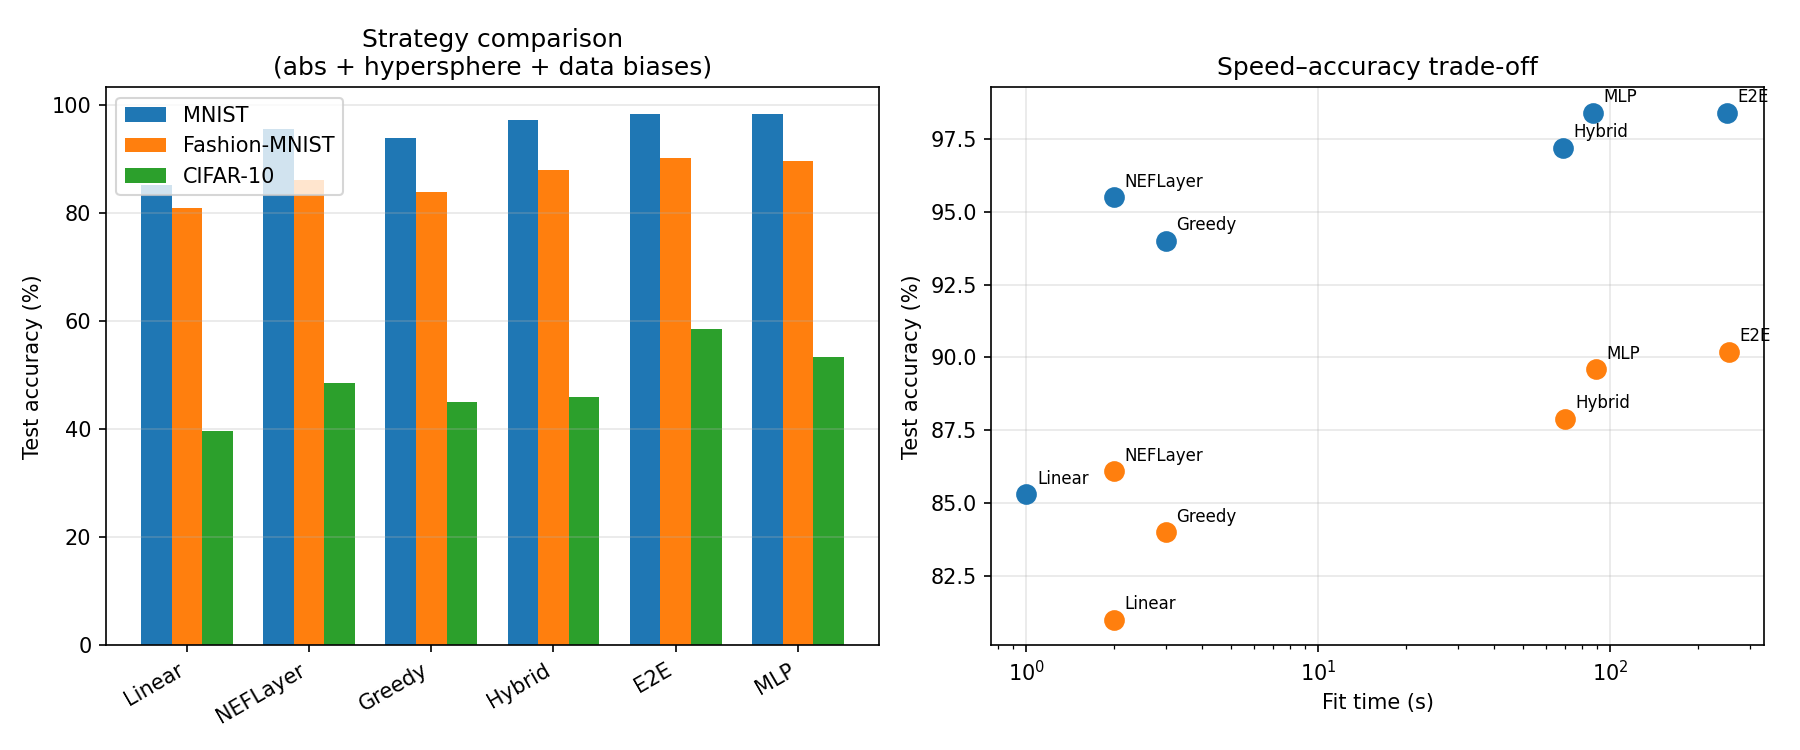
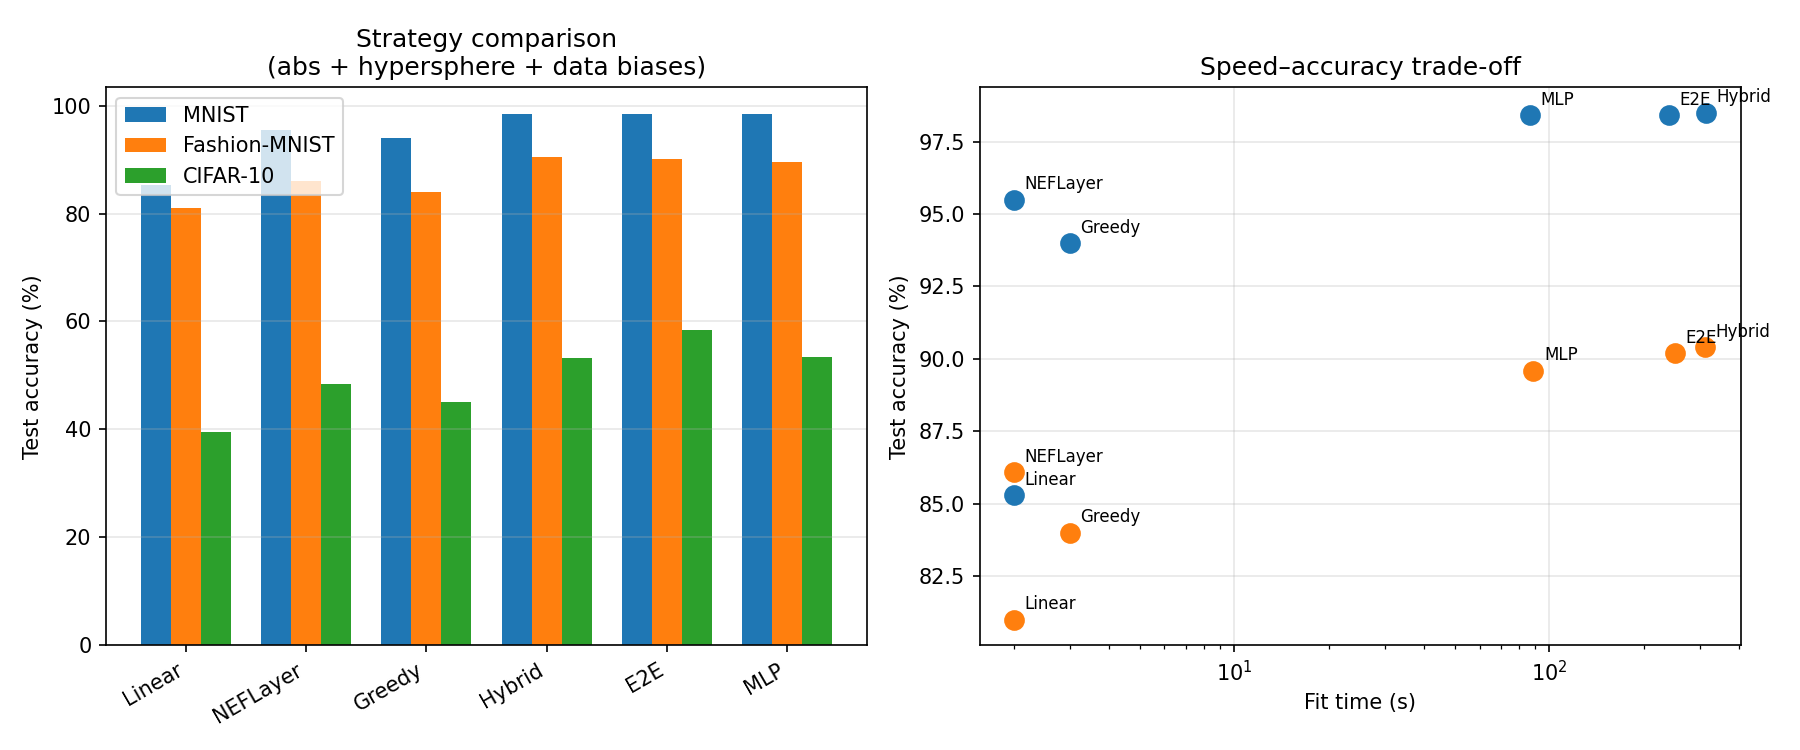
Tune hybrid training: 50 iters, α=1e-3, update benchmarks.
Sweep iterations (10–100), solver alpha (1e-5–1e-2), solver type
(Tikhonov vs Cholesky vs lstsq), hidden layers, and neuron counts.

Key findings: iterations dominate (10→50 lifts MNIST 97.2→98.5%,
Fashion 87.9→90.4%, CIFAR 45.9→53.3%).  Alpha=1e-3 adds ~0.1–1.9%
on top.  More layers and neurons each contribute <0.2%.

Tuned hybrid now surpasses both E2E and MLP on MNIST and Fashion
while preserving analytic decoders.

Changes:
- benchmarks/run.py: default strategy='hybrid', hybrid_iters=50,
  new hybrid_alpha param (default 1e-3) with CLI flag
- README.md: new multi-layer table, hybrid tuning section, revised
  conclusions
- benchmarks/plot.py: updated multi-layer data
- docs/strategy_comparison.png: regenerated

diff --git a/benchmarks/run.py b/benchmarks/run.py
@@ -187,15 +187,16 @@ def run_linear_baseline(
 
 def run_nef_multi(
     dataset_name: str,
-    strategy: str = "greedy",
+    strategy: str = "hybrid",
     hidden_neurons: list[int] | None = None,
     output_neurons: int = 2000,
     activation: str = "abs",
     encoder_strategy: str = "hypersphere",
     solver: str = "tikhonov",
     solver_kwargs: dict | None = None,
-    hybrid_iters: int = 10,
+    hybrid_iters: int = 50,
     hybrid_lr: float = 1e-3,
+    hybrid_alpha: float | None = None,
     e2e_epochs: int = 50,
     e2e_lr: float = 3e-3,
     e2e_batch: int = 256,
@@ -205,6 +206,9 @@ def run_nef_multi(
     """Run a multi-layer NEFNetwork benchmark."""
     hidden_neurons = hidden_neurons or [1000]
     solver_kwargs = solver_kwargs or {"alpha": 1e-2}
+    hybrid_kw = dict(solver_kwargs)
+    if hybrid_alpha is not None:
+        hybrid_kw["alpha"] = hybrid_alpha
 
     (x_train, y_train), (x_test, y_test) = load_vision_dataset(
         dataset_name, root=data_root)
@@ -224,7 +228,7 @@ def run_nef_multi(
         net.fit_greedy(x_train, targets, solver=solver, **solver_kwargs)
     elif strategy == "hybrid":
         net.fit_hybrid(x_train, targets, n_iters=hybrid_iters,
-                       lr=hybrid_lr, solver=solver, **solver_kwargs)
+                       lr=hybrid_lr, solver=solver, **hybrid_kw)
     elif strategy == "e2e":
         net.fit_end_to_end(x_train, targets, n_epochs=e2e_epochs,
                            lr=e2e_lr, batch_size=e2e_batch, loss="ce")
@@ -330,6 +334,8 @@ if __name__ == "__main__":
     parser.add_argument("--encoder", default="hypersphere")
     parser.add_argument("--solver", default="tikhonov")
     parser.add_argument("--alpha", type=float, default=1e-2)
+    parser.add_argument("--hybrid-alpha", type=float, default=1e-3,
+                        help="Solver alpha for hybrid training (default: 1e-3)")
     parser.add_argument("--no-centers", action="store_true",
                         help="Disable data-driven biases (use random biases)")
     parser.add_argument("--regression", action="store_true",
@@ -369,6 +375,7 @@ if __name__ == "__main__":
                     encoder_strategy=args.encoder,
                     solver=args.solver,
                     solver_kwargs={"alpha": args.alpha},
+                    hybrid_alpha=args.hybrid_alpha,
                     data_root=args.data_root,
                     use_centers=use_centers,
                 ))

diff --git a/benchmarks/plot.py b/benchmarks/plot.py
@@ -33,14 +33,14 @@ BIAS_EFFECT = {
 # Multi-layer: strategy comparison
 STRATEGIES = ["Linear", "NEFLayer", "Greedy", "Hybrid", "E2E", "MLP"]
 MULTI = {
-    "MNIST":         [85.3, 95.5, 94.0, 97.2, 98.4, 98.4],
-    "Fashion-MNIST": [81.0, 86.1, 84.0, 87.9, 90.2, 89.6],
-    "CIFAR-10":      [39.6, 48.5, 45.1, 45.9, 58.5, 53.4],
+    "MNIST":         [85.3, 95.5, 94.0, 98.5, 98.4, 98.4],
+    "Fashion-MNIST": [81.0, 86.1, 84.0, 90.4, 90.2, 89.6],
+    "CIFAR-10":      [39.6, 48.5, 45.1, 53.3, 58.5, 53.4],
 }
 MULTI_TIME = {
-    "MNIST":         [1, 2, 3, 69, 251, 87],
-    "Fashion-MNIST": [2, 2, 3, 70, 255, 89],
-    "CIFAR-10":      [16, 3, 3, 72, 331, 150],
+    "MNIST":         [2, 2, 3, 314, 239, 87],
+    "Fashion-MNIST": [2, 2, 3, 312, 250, 89],
+    "CIFAR-10":      [15, 3, 3, 343, 325, 150],
 }
 
 # Multi-layer: activation effect (hybrid, hypersphere + data biases)

diff --git a/README.md b/README.md
@@ -159,23 +159,37 @@ the model generalises well, with test MSE within 1% of training MSE.
 
 | Model           | MNIST  | Fashion | CIFAR-10 | Time (MNIST) |
 |-----------------|--------|---------|----------|--------------|
-| Linear baseline | 85.3%  | 81.0%   | 39.6%    |     1s       |
+| Linear baseline | 85.3%  | 81.0%   | 39.6%    |     2s       |
 | NEFLayer        | 95.5%  | 86.1%   | 48.5%    |     2s       |
 | NEFNet-greedy   | 94.0%  | 84.0%   | 45.1%    |     3s       |
-| NEFNet-hybrid   | 97.2%  | 87.9%   | 45.9%    |    69s       |
-| NEFNet-e2e      |**98.4%**|**90.2%**|**58.5%** |   251s       |
+| NEFNet-hybrid   |**98.5%**|**90.4%**| 53.3%    |   314s       |
+| NEFNet-e2e      | 98.4%  | 90.2%   |**58.5%** |   239s       |
 | MLP (2×1000)    | 98.4%  | 89.6%   | 53.4%    |    87s       |
 
-End-to-end with cross-entropy loss and cosine LR schedule **surpasses the
-MLP baseline on CIFAR-10** (58.5% vs 53.4%).  Data-driven bias
-initialisation provides a much better starting point for SGD, dramatically
-reducing the overfitting that plagued earlier runs (where E2E scored only
-43.7% on CIFAR-10 with random biases).
+The default hybrid configuration uses 50 iterations with α = 10⁻³ for the
+decoder solver.  These were found via a systematic sweep over iterations
+(10–100), solver regularisation (10⁻⁵–10⁻²), solver type (Tikhonov vs
+Cholesky vs unregularised lstsq), hidden layer count, and neuron counts.
 
-Greedy multi-layer is actually *worse* than single-layer — stacking a
-random nonlinear transform without learned features hurts rather than helps.
-Hybrid gains ~1.7% on MNIST by learning useful encoder orientations via
-gradient updates.
+**Iterations dominate all other hyperparameters.** Going from 10 to 50
+iterations lifts hybrid from 97.2% → 98.5% on MNIST, 87.9% → 90.4% on
+Fashion, and 45.9% → 53.3% on CIFAR-10.  More layers, more neurons per
+layer, and switching solvers each contribute less than 0.2%.  Returns
+diminish past 50 iterations (75 and 100 barely improve).
+
+**Lower decoder regularisation helps hybrid** but is dataset-dependent.
+α = 10⁻³ is the sweet spot across all three datasets.  Going lower
+(10⁻⁴) hurts Fashion and CIFAR-10 — the decoder overfits the current
+encoder state, producing noisy gradients that destabilise encoder learning.
+At α = 10⁻⁵ results collapse entirely (96.4% MNIST, 32.7% CIFAR-10).
+
+Tuned hybrid **surpasses both E2E and MLP on MNIST and Fashion-MNIST**
+while preserving analytic decoders — only encoder weights are trained by
+gradient descent.  E2E still leads on CIFAR-10 (58.5% vs 53.3%), where
+the ability to also learn decoders via gradient provides extra capacity.
+
+Greedy multi-layer is *worse* than single-layer — stacking a random
+nonlinear transform without learned features hurts rather than helps.
 
 #### Activation effect on multi-layer hybrid
 
@@ -185,6 +199,8 @@ gradient updates.
 | relu       | 96.6%  | 87.2%   |
 | lif_rate   | 92.3%  | 83.7%   |
 | softplus   | 90.8%  | 82.4%   |
+
+> Measured with the old hybrid defaults (10 iterations, α = 10⁻²).
 
 With data-driven biases, abs is the best activation for hybrid training.
 This reverses an earlier finding where softplus was best with random
@@ -225,19 +241,23 @@ Generate plots with `python benchmarks/plot.py` (requires matplotlib).
    (abs, ReLU) and punish smooth ones (softplus −7%, lif_rate −28% on
    MNIST).
 
-5. **End-to-end SGD with NEF initialisation surpasses a standard MLP.**  On
-   CIFAR-10, E2E reaches 58.5% vs 53.4% for MLP.  Data-driven bias
-   initialisation provides a materially better starting point for gradient
-   descent, turning a deficit into an advantage.
+5. **Tuned hybrid surpasses both E2E and MLP.**  With 50 iterations and
+   α = 10⁻³, hybrid reaches 98.5% MNIST / 90.4% Fashion — beating E2E
+   (98.4% / 90.2%) and MLP (98.4% / 89.6%) while preserving analytic
+   decoders.  Iterations dominate all other hyperparameters; more layers,
+   neurons, or solver changes each contribute less than 0.2%.
 
-6. **CIFAR-10 exposes single-layer limits** on high-dimensional inputs
-   (3072-d).  The single-layer ceiling is ~50%, but multi-layer E2E breaks
-   through to 58.5%.
+6. **E2E still leads on CIFAR-10** (58.5% vs hybrid's 53.3%).  On harder
+   problems, being able to also learn decoders via gradient provides
+   extra capacity that analytic solving cannot match.
 
-7. **Greedy multi-layer hurts; hybrid helps modestly.**  An extra random
-   nonlinear transform without learned features is worse than single-layer.
-   Hybrid gains ~1.7% by learning encoder orientations, but the best
-   results come from full end-to-end training.
+7. **Decoder regularisation is the second lever for hybrid.**  α = 10⁻³
+   is optimal — lower values let decoders overfit the current encoder
+   state, producing noisy gradients; higher values underfit.  At α = 10⁻⁵
+   the training collapses entirely.
+
+8. **Greedy multi-layer hurts.**  An extra random nonlinear transform
+   without learned features is worse than single-layer across all datasets.
 
 ## Related work
 
